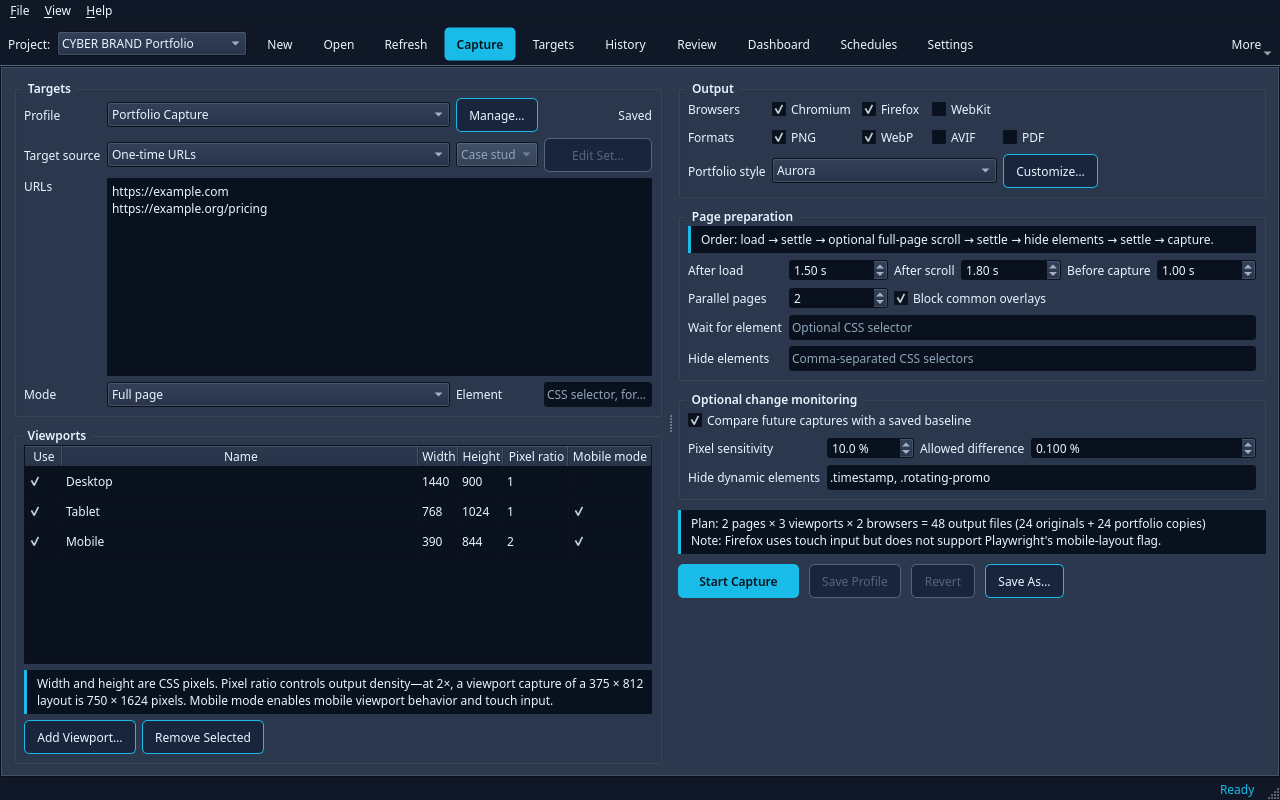
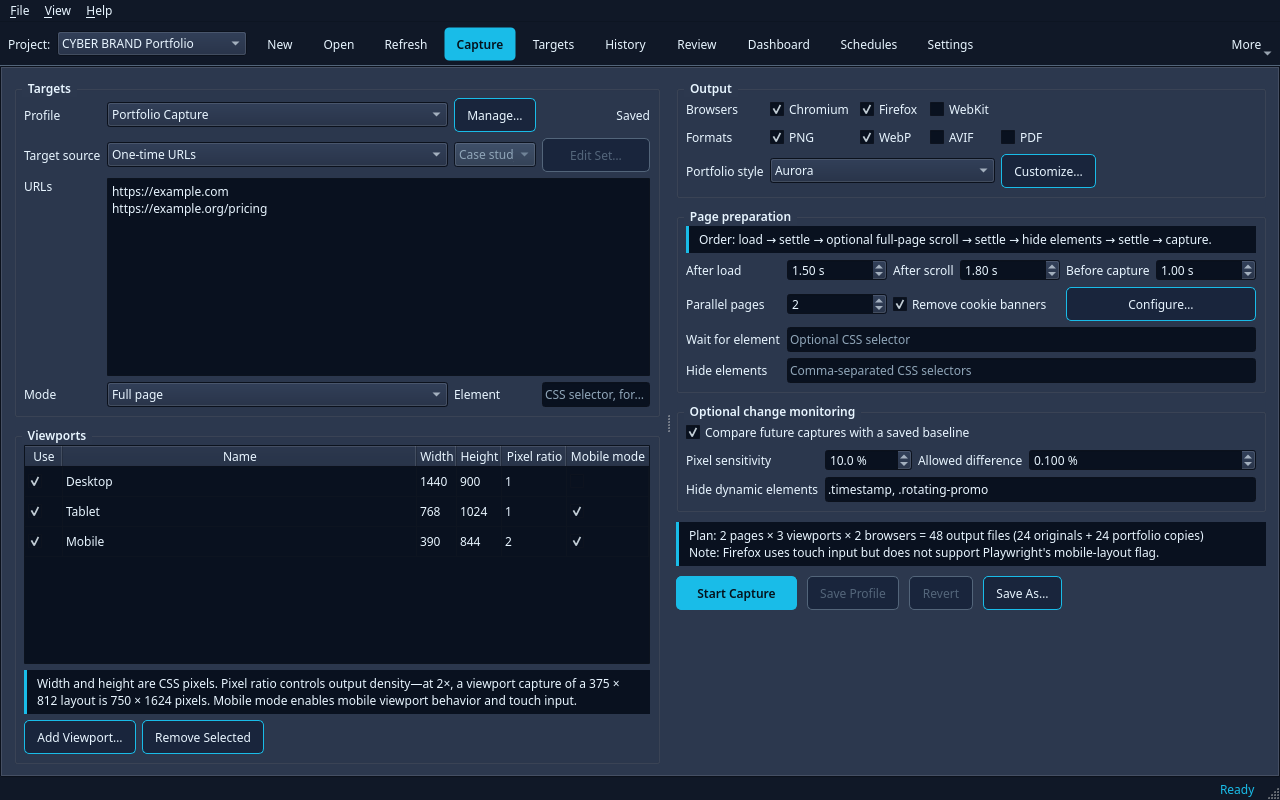
2.3.0 release: CI, docs, and version bump
- CI: install all engines (chromium/firefox/webkit) and run parameterized fixtures
- release.yml: browser-matrix job to require all engines on Linux
- docs: API.md (contentBlocking routes), ARCHITECTURE.md (capture boundary), PROJECT_FORMAT.md (schema v5), THIRD-PARTY.md (EasyList/uBlock licenses), RELEASE.md (changelog), v2.3.0.md (release notes)
- version: 2.3.0 in package.json and CMakeLists.txt
- smoke test: assert content blocking provenance in artifacts
- screenshots: updated app-capture/dashboard/history images

diff --git a/docs/releases/v2.3.0.md b/docs/releases/v2.3.0.md
@@ -1,0 +1,49 @@
+# CyberSnapper 2.3.0 (2026-08-22)
+
+## Content blocking
+
+- **Cookie banner removal**: Automatically hide and dismiss cookie consent banners using curated filter lists (EasyList Cookie, uBlock Origin Cookie) and custom rulesets.  
+- **Consent handling**: Choose between "reject non-essential cookies then dismiss" (default) or "dismiss using the site's own accept control" strategies.  
+- **Site exceptions**: Skip content blocking entirely on specific domains (e.g., `app.example.com`).  
+- **Custom rulesets**: Create and reuse rulesets with cosmetic filters (`##.promo-overlay`) and trusted click actions (`example.com#click(#save-button)`).  
+- **Visual review**: Every artifact in History now shows a provenance tooltip with blocked subresources, consent actions, and warnings.  
+
+## Security
+
+- **Capture boundary**: Community filter exceptions (e.g., `@@||127.0.0.1^`) can never bypass the network-security policy; user blocklist fragments always win.  
+- **HTTPS-only downloads**: Subscription lists and snapshots are fetched over HTTPS with certificate validation.  
+- **Atomic writes**: Temporary files are never left behind; last-known-good snapshots are used if a refresh fails.  
+
+## Compatibility
+
+- **Browser matrix**: Release packages are tested against Chromium, Firefox, and WebKit on Linux, Windows, and macOS.  
+- **Schema v5**: Project databases are automatically upgraded; downgrades are not supported.  
+
+## Developer
+
+- **REST API v1**: New `/v1/contentBlocking/catalog`, `/v1/contentBlocking/status`, and `/v1/contentBlocking/refresh` endpoints.  
+- **RPC v1**: `contentBlocking.catalog`, `contentBlocking.status`, and `contentBlocking.refresh` methods.  
+- **Worker protocol v2**: Content blocking events carry `blockedSubresources`, `consentActionsAttempted`, and `consentActionsSucceeded` metrics.  
+
+## Documentation
+
+- `docs/ARCHITECTURE.md`: Updated for the capture boundary, visual review model, and scheduling.  
+- `docs/PROJECT_FORMAT.md`: Schema v5 reference.  
+- `docs/THIRD-PARTY.md`: Added EasyList and uBlock Origin licenses.  
+
+## Packaging
+
+- **Linux**: AppImage and tar.gz (x64, arm64).  
+- **Windows**: NSIS installer and ZIP (x64).  
+- **macOS**: DMG and ZIP (x64, arm64).  
+
+## Upgrading
+
+1. Open any project; the database will be upgraded to schema v5 automatically.  
+2. Visit **Preferences → Content Blocking** to configure subscriptions and strategy.  
+3. Use **History → Open Containing Folder** to inspect provenance details.
+
+## Known issues
+
+- Firefox and WebKit do not support `page.route()` for network-level blocking; cosmetic filters and consent actions work normally.  
+- macOS WebKit may show spurious "Unable to load page" errors in the Review tab; reload to retry.

diff --git a/docs/PROJECT_FORMAT.md b/docs/PROJECT_FORMAT.md
@@ -12,12 +12,15 @@ baselines/
   previews/
   diffs/JOB_ID/*
   logs/
+  rulesets/<digest>.json
   tmp/
 ```
 
 `project.cybersnapper.json` contains a stable project UUID, display name, schema version, database path, capture root, creation timestamp, and the per-project localhost policy. It contains no credentials.
 
-SQLite schema v4 records profiles, named target sets and their ordered targets, jobs, ordered job events, artifacts, immutable baseline pointers, comparison results, review decisions, and schedules. Artifact metadata includes normalized target and target-set provenance alongside the original/final URL, browser engine, viewport, mode, format, relative path, dimensions, SHA-256 hash, status, timestamp, and the `original` or `portfolio` variant. Portfolio artifacts also retain the effective scene, frame, canvas, padding, shadow, and solid-color settings. These fields live in the existing JSON metadata, so presentation output does not require a schema migration.
+SQLite schema v5 records profiles, named target sets and their ordered targets, jobs, ordered job events, artifacts, immutable baseline pointers, comparison results, review decisions, schedules, and reusable content-blocking rulesets. Artifact metadata includes normalized target and target-set provenance alongside the original/final URL, browser engine, viewport, mode, format, relative path, dimensions, SHA-256 hash, status, timestamp, the `original` or `portfolio` variant, and content-blocking provenance (ruleset digest, blocked subresource count, cosmetic rule count, consent-action counts, warnings). Portfolio artifacts also retain the effective scene, frame, canvas, padding, shadow, and solid-color settings.
+
+Content-blocking ruleset snapshots are written by the agent into `.cybersnapper/rulesets/<digest>.json` when a job is submitted. Each file is a JSON envelope whose `payload` string is hashed with SHA-256; the digest is stored in the job request so retries replay the exact same rules, and the worker re-verifies the hash before use. Downloaded community filter lists themselves are cached in the app-local data directory, never inside a project.
 
 When portfolio styling is enabled, every raster original is preserved and a collision-safe `-portfolio` sibling is created. PDF output is not styled. Portfolio variants cannot become visual-comparison baselines; comparisons remain tied to the original capture pixels.
 

diff --git a/docs/ARCHITECTURE.md b/docs/ARCHITECTURE.md
@@ -35,6 +35,12 @@ Jobs are capped at 10,000 artifacts. Raster work is capped at 64 million device 
 
 Each browser engine is launched headlessly. Each target uses an isolated Playwright context. Browser installation is an explicit agent operation and capture jobs never install software automatically.
 
+## Content blocking boundary
+
+Content blocking removes cookie-consent banners and optionally filters subresources, but it never weakens the capture boundary. The agent combines cached community lists and project custom rulesets into a content-addressed snapshot (`.cybersnapper/rulesets/<digest>.json`) at submission time; the digest travels in the job request and the worker re-verifies it before use. Community lists are downloaded only by the agent into app-local cache — never during a capture.
+
+Inside the worker's route handler, the localhost/private-network policy is evaluated first and always wins. Community network filters can only reject subresource requests: exceptions from community lists cannot allow a blocked destination, and the main document request is never community-blocked. Custom rulesets support only structured hide/click actions with bounded selectors and delays; scriptlets other than a strictly parsed trusted-click form, response rewriting, redirects, CSP manipulation, and cookie/local-storage mutation are rejected before storage. Consent handling is best effort and scoped to identified banner containers; normal application dialogs are left untouched. Per-artifact provenance (digest, blocked counts, warnings) is recorded so history explains why a capture differs from an unblocked page.
+
 ## REST boundary
 
 REST v1 is disabled by default and binds to `127.0.0.1` only. All routes except health require a high-entropy bearer token. CyberSnapper stores only a SHA-256 token digest and compares digests without an early exit. Request bodies are capped at 1 MiB.

diff --git a/docs/THIRD-PARTY.md b/docs/THIRD-PARTY.md
@@ -1,0 +1,38 @@
+# Third-party notices
+
+CyberSnapper bundles or depends on the following third-party materials. This
+file is bundled with release artifacts alongside the ISC license in `LICENSE`.
+
+## @ghostery/adblocker (worker)
+
+The capture worker uses [@ghostery/adblocker](https://github.com/ghostery/adblocker)
+to parse EasyList-style filter syntax. It is licensed under the
+**Mozilla Public License 2.0**. A local copy of the license text is available
+in `node_modules/@ghostery/adblocker/LICENSE` inside the source distribution.
+CyberSnapper uses the library's rule-matching engine only; it does not use its
+browser-extension routing wrappers.
+
+## Community filter lists
+
+Curated subscription lists are downloaded at runtime from their official
+publishers and remain the property of their authors:
+
+| Subscription | Publisher | License |
+| --- | --- | --- |
+| EasyList Cookie, EasyList, EasyPrivacy | [EasyList](https://easylist.to/) authors | Creative Commons Attribution-ShareAlike 3.0 Unported |
+| uBlock Cookie Notices, uBlock Annoyances | [uAssets](https://github.com/uBlockOrigin/uAssets) contributors | GNU General Public License v3.0 |
+
+Subscription metadata follows the official uBlock list catalog:
+<https://github.com/gorhill/uBlock/blob/master/assets/assets.json>. Filter-list
+licenses are documented by uBlock at
+<https://github.com/gorhill/uBlock/wiki/Filter-list-licenses>.
+
+Lists are cached locally after download; CyberSnapper never modifies or
+redistributes list content. Custom rulesets authored by users belong to the
+user.
+
+## Other runtime dependencies
+
+`playwright` (Apache-2.0), `sharp` (Apache-2.0), and the Qt 6 framework
+(LGPL-3.0/GPL-3.0 commercial dual-license, linked dynamically) retain their
+own licenses as distributed. Consult each package for full notices.

diff --git a/docs/API.md b/docs/API.md
@@ -1,6 +1,59 @@
 # REST API v1
 
-The optional API listens on `http://127.0.0.1:39071` by default. With the exception of health, requests require:
+## Content blocking
+
+### `GET /v1/contentBlocking/catalog`
+
+Returns the list of available subscription lists and their metadata.
+
+**Response**:
+```json
+{
+  "contentBlockingCatalog": [
+    {
+      "id": "easylist-cookie",
+      "name": "EasyList Cookie",
+      "homepage": "https://easylist.to/",
+      "lastUpdated": "2026-08-22T00:00:00Z"
+    },
+    {
+      "id": "ublock-cookie",
+      "name": "uBlock Origin Cookie",
+      "homepage": "https://github.com/gorhill/uBlock",
+      "lastUpdated": "2026-08-22T00:00:00Z"
+    }
+  ]
+}
+```
+
+### `GET /v1/contentBlocking/status`
+
+Returns the current content blocking status and metrics.
+
+**Response**:
+```json
+{
+  "contentBlockingStatus": {
+    "enabled": true,
+    "subscriptionIds": ["easylist-cookie", "ublock-cookie"],
+    "customRulesetIds": [],
+    "lastRefresh": "2026-08-22T00:00:00Z",
+    "metrics": {
+      "blockedSubresources": 42,
+      "consentActionsAttempted": 5,
+      "consentActionsSucceeded": 3
+    }
+  }
+}
+```
+
+### `POST /v1/contentBlocking/refresh`
+
+Refreshes the content blocking snapshots. Returns the new status.
+
+**Response**: Same as `GET /v1/contentBlocking/status`.
+
+## Projects
 
 ```http
 Authorization: Bearer YOUR_TOKEN

diff --git a/RELEASE.md b/RELEASE.md
@@ -55,6 +55,15 @@ The workflow creates AppImage and tar.gz packages for Linux x64 and arm64, setup
 - If the tagged source or a packaged application is defective, do not move the tag or silently replace the release. Document the issue and publish a corrected patch release from a new commit and tag.
 - Keep an incomplete release unannounced until recovery succeeds. If downloads may be unsafe or misleading, mark the release as a prerelease while preparing the corrective release.
 
+## v2.3.0
+
+- **Content blocking**: Cookie banner removal, consent handling, site exceptions, custom rulesets, and visual review.  
+- **Security**: Capture boundary, HTTPS-only downloads, atomic writes, and last-known-good snapshots.  
+- **Compatibility**: Browser matrix (Chromium/Firefox/WebKit) and schema v5.  
+- **Developer**: REST API v1 (`/v1/contentBlocking/*`), RPC v1 (`contentBlocking.*`), and worker protocol v2.  
+- **Documentation**: Updated `ARCHITECTURE.md`, `PROJECT_FORMAT.md`, and `THIRD-PARTY.md`.  
+- **Packaging**: AppImage/tar.gz (Linux x64/arm64), NSIS/ZIP (Windows x64), DMG/ZIP (macOS x64/arm64).
+
 ## v2.2.2
 
 - The Chromium engine falls back to Google Chrome and then Microsoft Edge when the bundled Chromium is missing.
